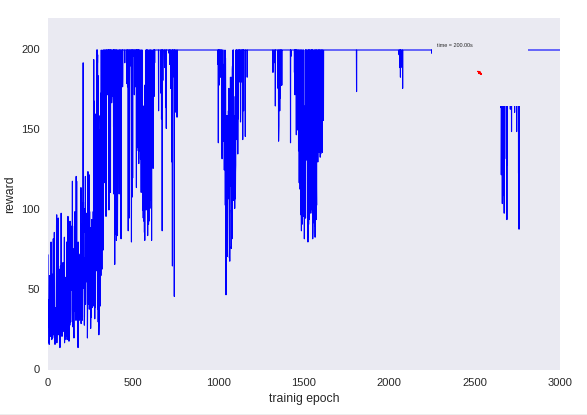
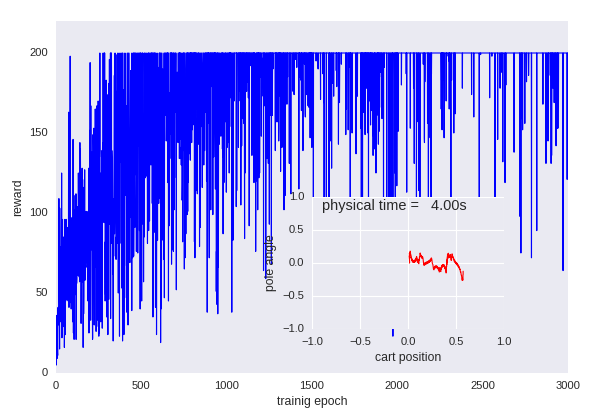
add figures and user input

diff --git a/main.py b/main.py
@@ -94,7 +94,7 @@ class Agent(object):
 
 
 
-def one_trial(reward_itr, i, render = False):
+def one_trial(agent, sess, grad_buffer, reward_itr, i, render = False):
     for idx in range(len(grad_buffer)):
         grad_buffer[idx] *= 0
     s = agent.env.reset()
@@ -138,7 +138,7 @@ def one_trial(reward_itr, i, render = False):
     return state_history
 
 
-def several_trials(reward_itr, i, render = False):
+def several_trials(agent, sess, grad_buffer, reward_itr, i, render = False):
     update_every = 3
     for j in range(update_every):
         s = agent.env.reset()
@@ -184,15 +184,13 @@ def several_trials(reward_itr, i, render = False):
     return state_history
 
 def animate_itr(i,*args):
-    reward_itr, sess, grad_buffer, Agent, obt_itr = args
+    agent, sess, grad_buffer, reward_itr, sess, grad_buffer, agent, obt_itr = args
 
-    state_history = several_trials(reward_itr,i)
-
-    if len(reward_itr) % 10 == 0:
-        xlist = [range(len(reward_itr))]
-        ylist = [reward_itr]
-        for lnum, line in enumerate(lines_itr):
-            line.set_data(xlist[lnum], ylist[lnum])  # set data for each line separately.
+    state_history = several_trials(agent, sess, grad_buffer, reward_itr, i)
+    xlist = [range(len(reward_itr))]
+    ylist = [reward_itr]
+    for lnum, line in enumerate(lines_itr):
+        line.set_data(xlist[lnum], ylist[lnum])  # set data for each line separately.
 
     if len(reward_itr) % obt_itr == 0:
         x_mag = 2.4
@@ -201,7 +199,8 @@ def animate_itr(i,*args):
         xlist = [np.asarray(state_history)[:,0] / x_mag]
         ylist = [np.asarray(state_history)[:,2] / y_mag]
         lines_obt.set_data(xlist, ylist)
-        time_text_obt.set_text('time = %6.2fs' % len(xlist[0]))
+        tau = 0.02
+        time_text_obt.set_text('physical time = %6.2fs' % (len(xlist[0])*tau))
 
     return (lines_itr,) + (lines_obt,) + (time_text_obt,)
 
@@ -209,7 +208,7 @@ def animate_itr(i,*args):
 def get_fig(max_epoch):
     fig = plt.figure()
     ax_itr = axes([0.1, 0.1, 0.8, 0.8])
-    ax_obt = axes([0.5, 0.2, .4, .4])
+    ax_obt = axes([0.5, 0.2, .3, .3])
 
     # able to display multiple lines if needed
     global lines_obt, lines_itr, time_text_obt
@@ -227,18 +226,30 @@ def get_fig(max_epoch):
     time_text_obt = []
     ax_obt.set_xlim([-1, 1])
     ax_obt.set_ylim([-1, 1])
+    ax_obt.set_xlabel('cart position')
+    ax_obt.set_ylabel('pole angle')
     lines_obt = ax_obt.plot([], [], lw=1, color="red")[0]
-    time_text_obt = ax_obt.text(0.05, 0.9, '', fontsize=8, transform=ax_obt.transAxes)
+    time_text_obt = ax_obt.text(0.05, 0.9, '', fontsize=13, transform=ax_obt.transAxes)
     return fig, ax_itr, ax_obt, time_text_obt
 
-if __name__ == "__main__":
-    # main()
+
+def main():
+    if len(sys.argv)==1:
+        lr, momentum = 0.2, 0.95
+        print("Using default learning rate = 0.2 and momentum = 0.95.")
+    else:
+        try:
+            lr,momentum = sys.argv[1:]
+            print("Using customized learning rate = %f and momentum = %f." %(lr,momentum))
+        except :
+            print("Oops! Program requires two variables.  Try again...")
+            exit()
     obt_itr = 10
     max_epoch = 3000
     fig, ax_itr, ax_obt, time_text_obt = get_fig(max_epoch)
     global reward_itr
     reward_itr = []
-    agent = Agent(hidden_size=24, alpha=0.3, gamma=0.95, dir='tmp/trial2/')
+    agent = Agent(hidden_size=24, alpha=lr, gamma=momentum, dir='tmp/trial2/')
     agent.show_parameters()
     # env = gym.make('CartPole-v0')
     tfconfig = tf.ConfigProto()
@@ -248,10 +259,12 @@ if __name__ == "__main__":
     grad_buffer = sess.run(tf.trainable_variables())
     tf.reset_default_graph()
 
-    args = [reward_itr, sess, grad_buffer, agent, obt_itr]
+    args = [agent, sess, grad_buffer, reward_itr, sess, grad_buffer, agent, obt_itr]
     ani = animation.FuncAnimation(fig, animate_itr,fargs=args)
     plt.show()
 
+if __name__ == "__main__":
+   main()
 
 # Set up formatting for the movie files
 # print('saving animation...')

diff --git a/readme.md b/readme.md
@@ -1,19 +1,32 @@
-OpenAI gym implementation of Cartpole example for MAE540
+OpenAI gym implementation of cart-pole example for MAE540. A simple Q learning algorithm is used to control the system.
 ![example](/../master/readme/animation.gif)
 
 ## Requirements
-If you are on Ubuntu, you can install [ipython](https://ipython.org/ipython-doc/2/install/install.html), [tensorflow](https://www.tensorflow.org/install/) and [gym](https://gym.openai.com/docs) as shown below:
+If you are on Ubuntu, you can install prerequisits using commands below:
 ```
 $pip install jupyter
 $pip install tensorflow
 $pip install gym
 ```
-If you are on Ubuntu 14.04, you might also need to install ffmpeg player:
+Otherwise, please refer to these pages for detailed installation guidance.
+[ipython](https://ipython.org/ipython-doc/2/install/install.html)
+
+[tensorflow](https://www.tensorflow.org/install/) 
+
+[gym](https://gym.openai.com/docs) 
+
+Besides, if you are on Ubuntu 14.04, you might also need to install ffmpeg player for proper video output:
 ```
 $sudo apt-get install libav-tools
 ```
 
+To run this repo:
+```
+$python main.py
+```
+
 ## Physical problem
+How to optimize a system controller when the system model is unknown. 
 State space is expanded by the location and speed of cart and angle and angular velocity of the pole (denoted by x, x_dot, theta, theta_dot).
 A force with magnitude of 10N is applied to the system.
 The force can be in either left or right direction.
@@ -21,26 +34,28 @@ The system stays in a given region of state space as long as posible.
 It starts with a small purtubation on the system state.
 And it will be considered as a failure trial whenever the state variables exit the region (-2.4, 2.4, -0.21, 0.21).
 
-How to optimize a system controller when the system model is unknown. 
 More details about the setup of the pysical environment can be found as [gym](https://github.com/openai/gym/wiki/CartPole-v0)
-governing equations for single pole can be found at [this technical report](https://pdfs.semanticscholar.org/3dd6/7d8565480ddb5f3c0b4ea6be7058e77b4172.pdf)
-Governing equation for multiple poles can be found at [this paper](http://ieeexplore.ieee.org/stamp/stamp.jsp?arnumber=155416)
+Details on the governing equations for single pole can be found at [this technical report](https://pdfs.semanticscholar.org/3dd6/7d8565480ddb5f3c0b4ea6be7058e77b4172.pdf)
+Corresponding equations for multiple poles can be found at [this paper](http://ieeexplore.ieee.org/stamp/stamp.jsp?arnumber=155416)
 
 
 
-## Network structure
+## Controller
 
-A two layer MLP is used as controller. 
-![MLP](/../master/assets/model.png)
-It is trained use stochastic gradient descent with momentum:
+A two layer MLP is used as controller. The network struction is:
+
+![MLP](/../master/assets/cart-pole-controller.png)
+
+Stochastic gradient descent with momentum is used to train this network:
+
 ![SGD](https://wikimedia.org/api/rest_v1/media/math/render/svg/4895d44c0572fb2988f2f335c28cc055a7f75fa0)
-update_every=3 is similar to have a batch size of 3
-normalization of inputs speed up computation
+
+Its paramters can be played with.
+
+Rewards is normalized to speed up the training process as described in [this paper](https://arxiv.org/abs/1602.07714)
 
 ## Results
-For a toy case, consider we have a collection of images of "square" and "cross+square" of different orientation and size.
-Note that we are trying to recover the information of "cross" from data directly.
-Instead, we wish the network to figure out the distribution for the "cross"  from the "cross+square" and "square" data by doing subtraction.
+By keep default parameters, we can get convergence curve similar to: 
 
 ![iteration](/../master/readme/iteration.png)
 
